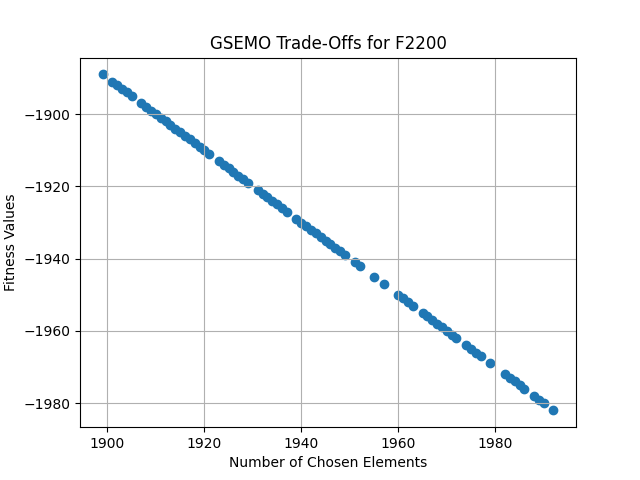
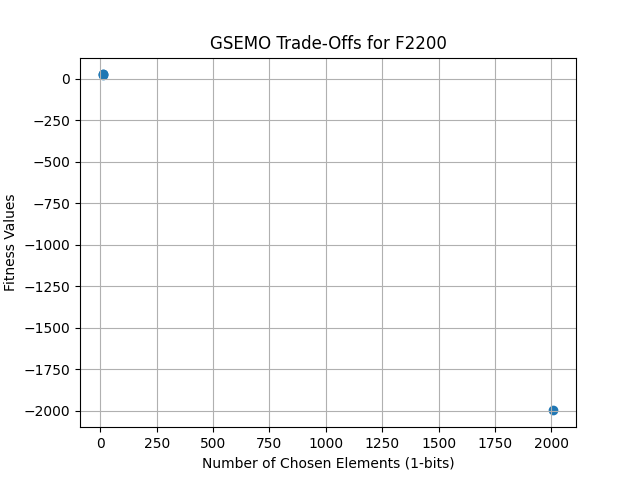
ex2 data and plot update

diff --git a/final/code/algorithms/GSEMO.py b/final/code/algorithms/GSEMO.py
@@ -26,7 +26,7 @@ class GSEMO(Algorithm):
         The function returns how x dominates y for some problem predefined func. 
         '''
 
-        if (x_fitn > y_fitn and np.sum(x) < np.sum(y)):
+        if (x_fitn > y_fitn and np.sum(x) <= np.sum(y)):
             return "STRICT"
         if (x_fitn >= y_fitn and np.sum(x) <= np.sum(y)):
             return "WEAK"
@@ -61,9 +61,8 @@ class GSEMO(Algorithm):
 
             # Optimisation step: 
             # Ensure fitness is positive; if not, repair by flipping one bits
-            ''' 
             if (f_mut < 0): 
-                Option to repair solution by flipping 1 bits 
+                # Option to repair solution by flipping 1 bits 
                 one_indices = np.where(x_mut == 1)[0]
                 for i in one_indices:
                     x_mut[i] = 0
@@ -71,11 +70,11 @@ class GSEMO(Algorithm):
                     if f_new >= 0:
                         f_mut = f_new
                         break    
-            '''
             
-            # Optimisation step: 
-            # Enforce uniform constraint (feasibility for maximum number of 1-bits k) by repairing individuals
             '''
+            # Optimisation step? 
+            # Enforce uniform constraint (feasibility for maximum number of 1-bits k) by repairing individuals
+            
             while (np.sum(x_mut) > constraint_k):
                 one_indices = np.where(x_mut == 1)[0]
                 x_mut[np.random.choice(one_indices)] = 0
@@ -86,11 +85,13 @@ class GSEMO(Algorithm):
             
             # If not strictly dominated...
             if not dominatingX: 
+
+                
                 # Delete all solutions that x weakly dominates
                 pareto = [(y, y_fit) for y, y_fit in pareto if self.multObjFit(x_mut, f_mut, y, y_fit) != "WEAK"]  
                 
                 '''
-                Alternative deletion that optimises
+                # Alternative deletion that optimises; inapplicable for the given pseudocode 
                 pareto = [(y, y_fit) for y, y_fit in pareto if self.multObjFit(x_mut, f_mut, y, y_fit) != "STRICT"]  
                 '''
 
@@ -112,7 +113,7 @@ class GSEMO(Algorithm):
 
             plot.figure()
             plot.scatter(k_dat, fit_dat)
-            plot.xlabel("Number of Chosen Elements")
+            plot.xlabel("Number of Chosen Elements (1-bits)")
             plot.ylabel("Fitness Values")
             plot.grid(True)
             plot.title(f"GSEMO Trade-Offs for F{func.meta_data.problem_id}")
@@ -120,3 +121,4 @@ class GSEMO(Algorithm):
             plot.close()
         
 
+ 
